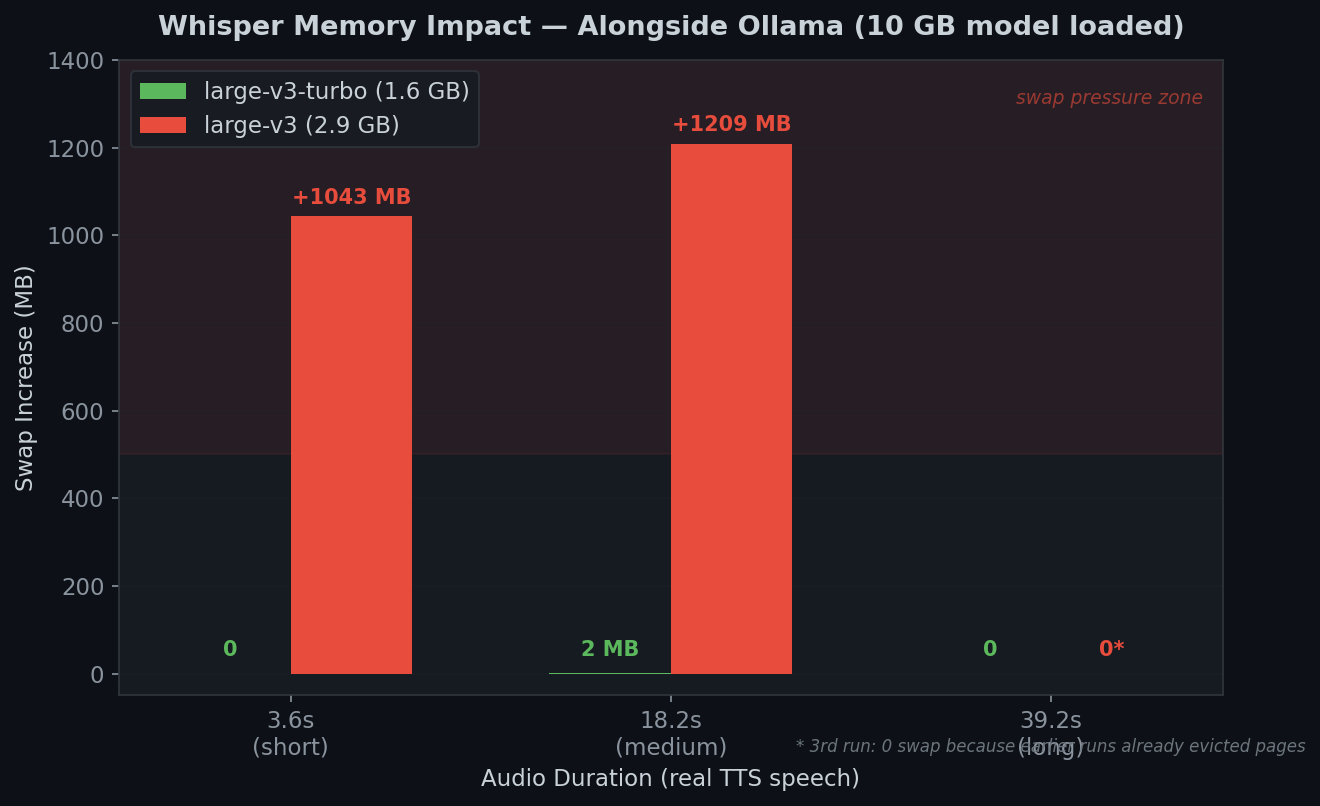
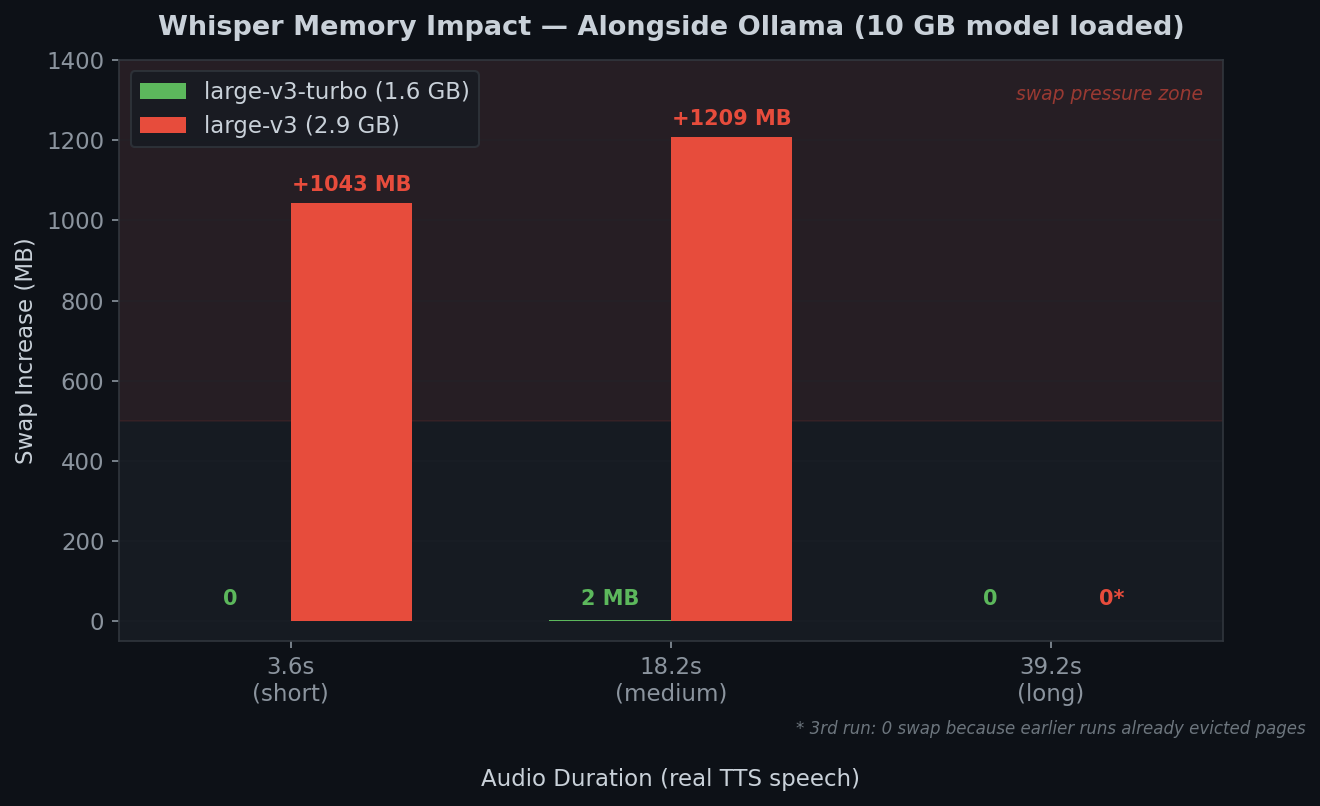
Fix chart label positioning and overlaps

diff --git a/benchmarks/generate-feature-charts.py b/benchmarks/generate-feature-charts.py
@@ -144,10 +144,10 @@ def chart_whisper_memory():
             color=C_SWAP, alpha=0.6, style='italic')
 
     # Footnote for the 0 on 3rd run
-    ax.text(2.0, -180, '* 3rd run: 0 swap because earlier runs already evicted pages',
+    ax.text(2.0, -280, '* 3rd run: 0 swap because earlier runs already evicted pages',
             fontsize=8, color='#6c757d', ha='center', style='italic')
 
-    ax.set_xlabel('Audio Duration (real TTS speech)')
+    ax.set_xlabel('Audio Duration (real TTS speech)', labelpad=30)
     ax.set_ylabel('Swap Increase (MB)')
     ax.set_title('Whisper Memory Impact — Alongside Ollama (10 GB model loaded)',
                  fontsize=13, fontweight='bold', pad=12)
@@ -335,9 +335,12 @@ def chart_signal_pipeline():
     ax.annotate('', xy=(8.5, 1), xytext=(7.6, 1), arrowprops=dict(arrowstyle='->', color=C_MOE, lw=1.5))
 
     # Labels on arrows
-    ax.text(4.7, 4.5, 'audio/*', fontsize=9, color=C_TURBO, fontweight='bold', rotation=25)
-    ax.text(4.6, 3.15, 'image/*', fontsize=9, color=C_9B, fontweight='bold')
-    ax.text(4.7, 1.7, 'text', fontsize=9, color=C_MOE, fontweight='bold', rotation=-18)
+    ax.text(4.45, 4.35, 'audio/*', fontsize=9, color=C_TURBO, fontweight='bold',
+            rotation=0, rotation_mode='anchor')
+    ax.text(4.6, 3.15, 'image/*', fontsize=9, color=C_9B, fontweight='bold',
+            rotation=0, rotation_mode='anchor')
+    ax.text(4.45, 1.65, 'text', fontsize=9, color=C_MOE, fontweight='bold',
+            rotation=0, rotation_mode='anchor')
 
     # Title
     ax.text(6, 5.8, 'Signal Message Processing Pipeline — BC-250',

diff --git a/benchmarks/generate-sd-charts.py b/benchmarks/generate-sd-charts.py
@@ -150,8 +150,8 @@ def chart_esrgan():
     ax.grid(axis='y', alpha=0.3)
 
     # Add "production" arrow
-    ax.annotate("← production\n   (tile 192)", xy=(1, 25), xytext=(1.8, 80),
-                fontsize=10, color='#2ecc71', fontweight='bold',
+    ax.annotate("production\n(tile 192)", xy=(1, 42), xytext=(1, 80),
+                fontsize=10, color='#2ecc71', fontweight='bold', ha='center',
                 arrowprops=dict(arrowstyle='->', color='#2ecc71', lw=1.5))
 
     plt.tight_layout()
